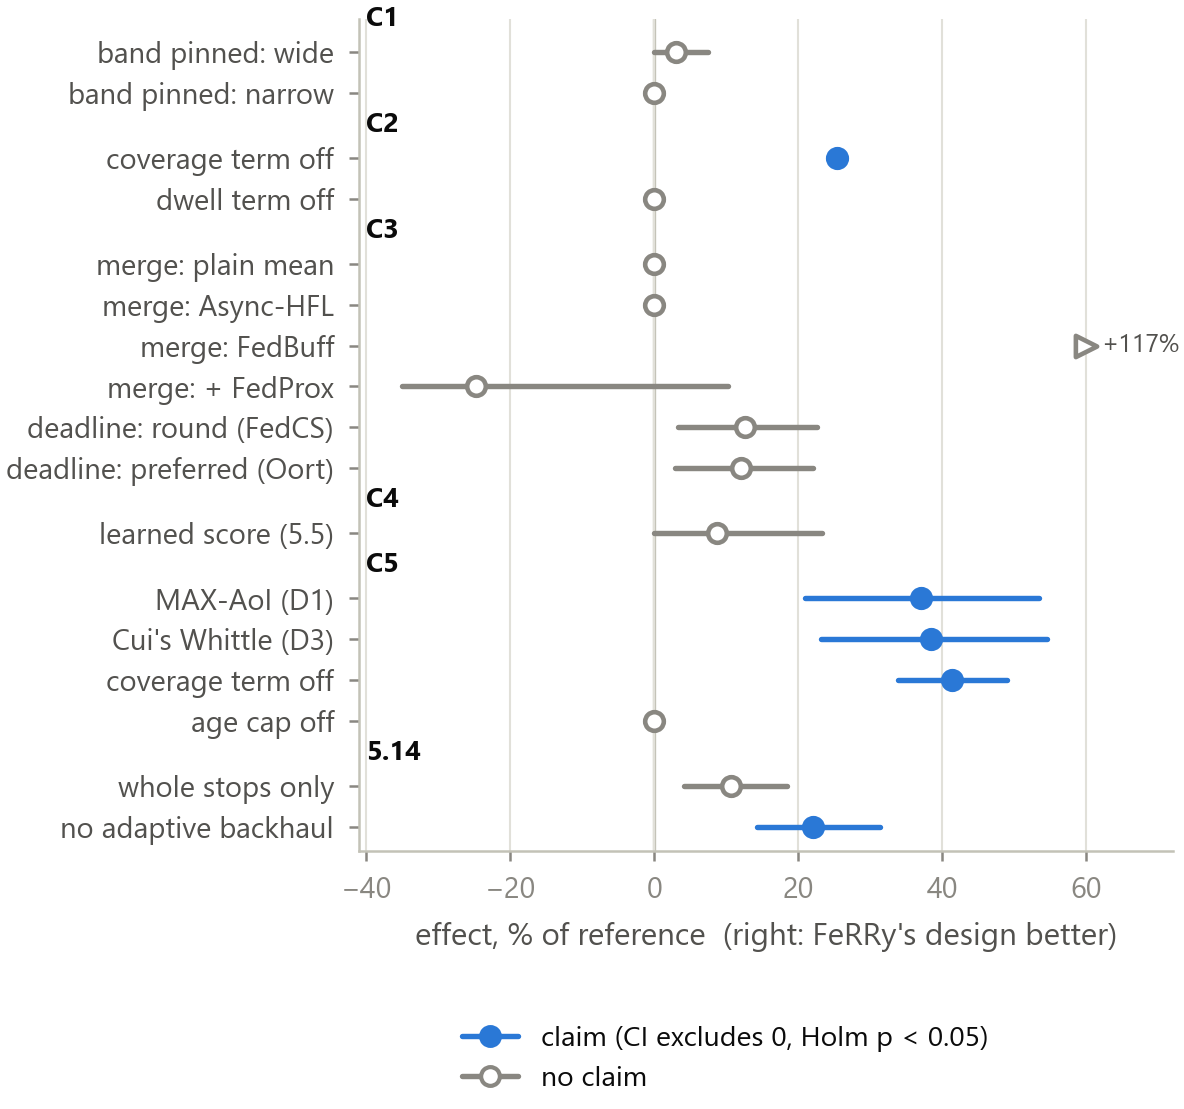
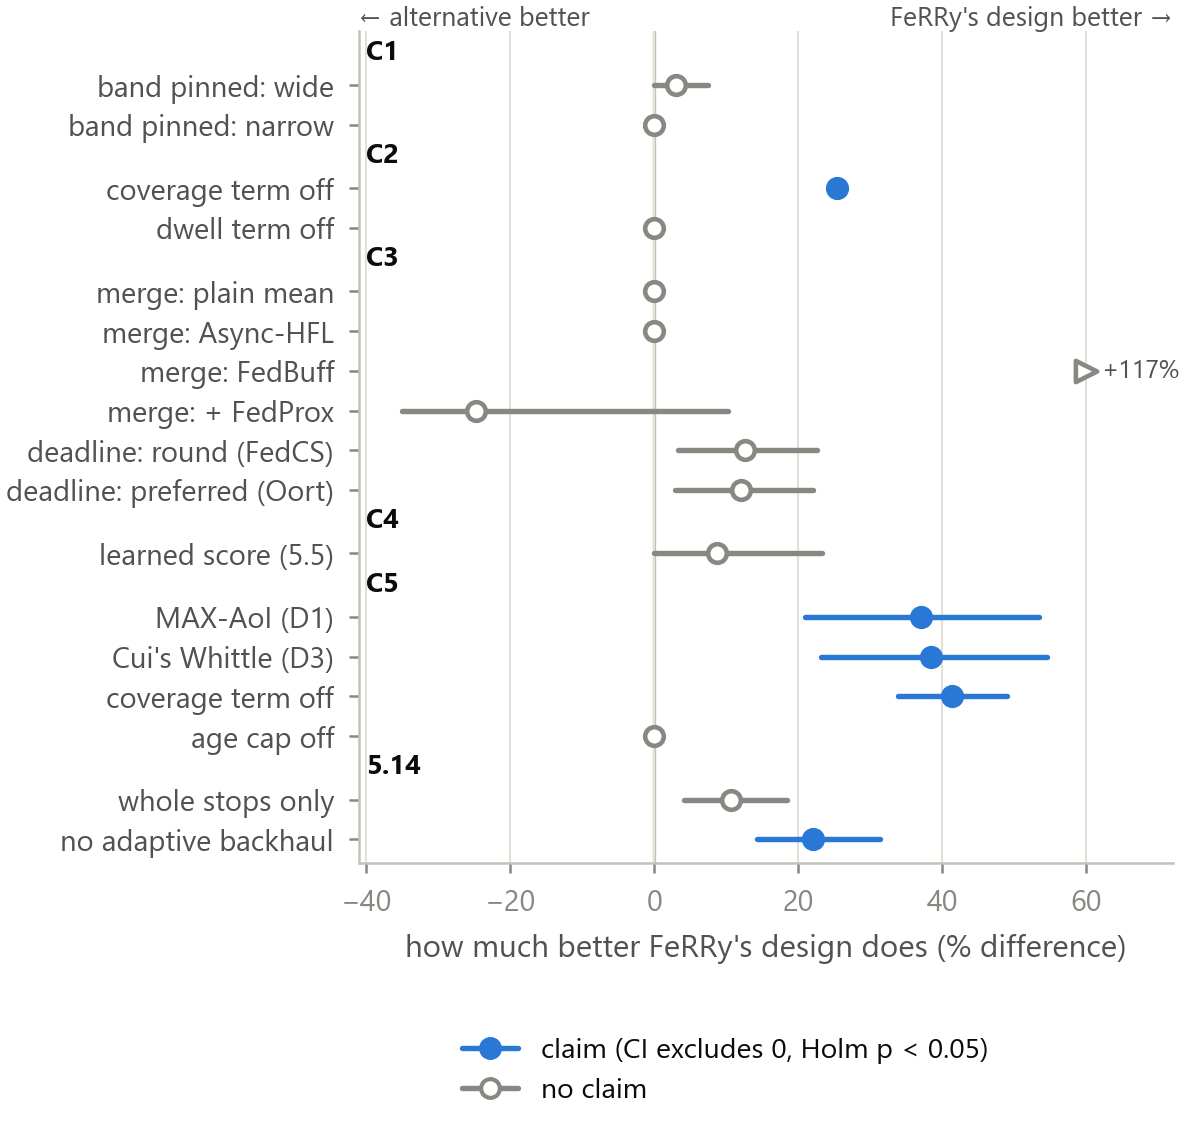
Exp 5 claims figure: a plainer x-axis label with direction cues
The axis now reads "how much better FeRRy's design does (% difference)",
with "<- alternative better" and "FeRRy's design better ->" above the
plot, in place of "effect, % of reference (right: FeRRy's design better)".
The caption says each row compares FeRRy's design with one alternative (a
baseline, a component removed, or another rule). The top row gets room so
the C1 group label clears the cues.

diff --git a/scripts/exp5/paper_figures.py b/scripts/exp5/paper_figures.py
@@ -522,12 +522,17 @@ def fig_claims(out: Path) -> None:
     ax.set_yticklabels(labels)
     ax.tick_params(axis="y", labelcolor=INK2)
     ax.set_xlim(xmin - 6, xmax + 12)
-    ax.set_ylim(y + 0.4, 0.8)
+    ax.set_ylim(y + 0.4, 1.35)                 # room for the first group label
     ax.grid(axis="y", visible=False)
     for gy, g in groups:
         ax.text(xmin - 5, gy + 0.5, g, fontsize=6.6, color=INK, fontweight="bold",
                 ha="left", va="bottom")
-    ax.set_xlabel("effect, % of reference  (right: FeRRy's design better)")
+    ax.set_xlabel("how much better FeRRy's design does (% difference)")
+    # Direction cues at both ends of the axis, above the plot.
+    ax.text(0.0, 1.0, "← alternative better", transform=ax.transAxes, ha="left",
+            va="bottom", fontsize=6.4, color=INK2)
+    ax.text(1.0, 1.0, "FeRRy's design better →", transform=ax.transAxes, ha="right",
+            va="bottom", fontsize=6.4, color=INK2)
     handles = [Line2D([], [], color=ARM_COLOR["F"], marker="o", lw=1.3, ms=4.5,
                       label="claim (CI excludes 0, Holm p < 0.05)"),
                Line2D([], [], color=MUTED, marker="o", mfc=SURFACE, lw=1.3, ms=4.5,
@@ -903,8 +908,10 @@ are added, mean and 95\% bootstrap CI.}
 \begin{figure}[t]
 \centering
 \includegraphics[width=\columnwidth]{Figures/fig_exp5_claims.pdf}
-\caption{Each design-claim test as the paired effect relative to its reference, oriented
-so that right means FeRRy's design is better, with its 95\% bootstrap CI. Filled: a claim
+\caption{Each design-claim test compares FeRRy's design with one alternative (a baseline,
+a component removed, or another rule): the paired difference as a percentage of FeRRy's
+value, so that right of zero means FeRRy's design does better, with its 95\% bootstrap CI.
+Filled: a claim
 (CI excludes 0 and Holm $p<0.05$ within the study). Tests and metrics as in
 Table~\ref{tab:exp5_claims}.}
 \label{fig:exp5_claims}

diff --git a/results/exp5/paper/exp5_figures.tex b/results/exp5/paper/exp5_figures.tex
@@ -42,8 +42,10 @@ are added, mean and 95\% bootstrap CI.}
 \begin{figure}[t]
 \centering
 \includegraphics[width=\columnwidth]{Figures/fig_exp5_claims.pdf}
-\caption{Each design-claim test as the paired effect relative to its reference, oriented
-so that right means FeRRy's design is better, with its 95\% bootstrap CI. Filled: a claim
+\caption{Each design-claim test compares FeRRy's design with one alternative (a baseline,
+a component removed, or another rule): the paired difference as a percentage of FeRRy's
+value, so that right of zero means FeRRy's design does better, with its 95\% bootstrap CI.
+Filled: a claim
 (CI excludes 0 and Holm $p<0.05$ within the study). Tests and metrics as in
 Table~\ref{tab:exp5_claims}.}
 \label{fig:exp5_claims}
